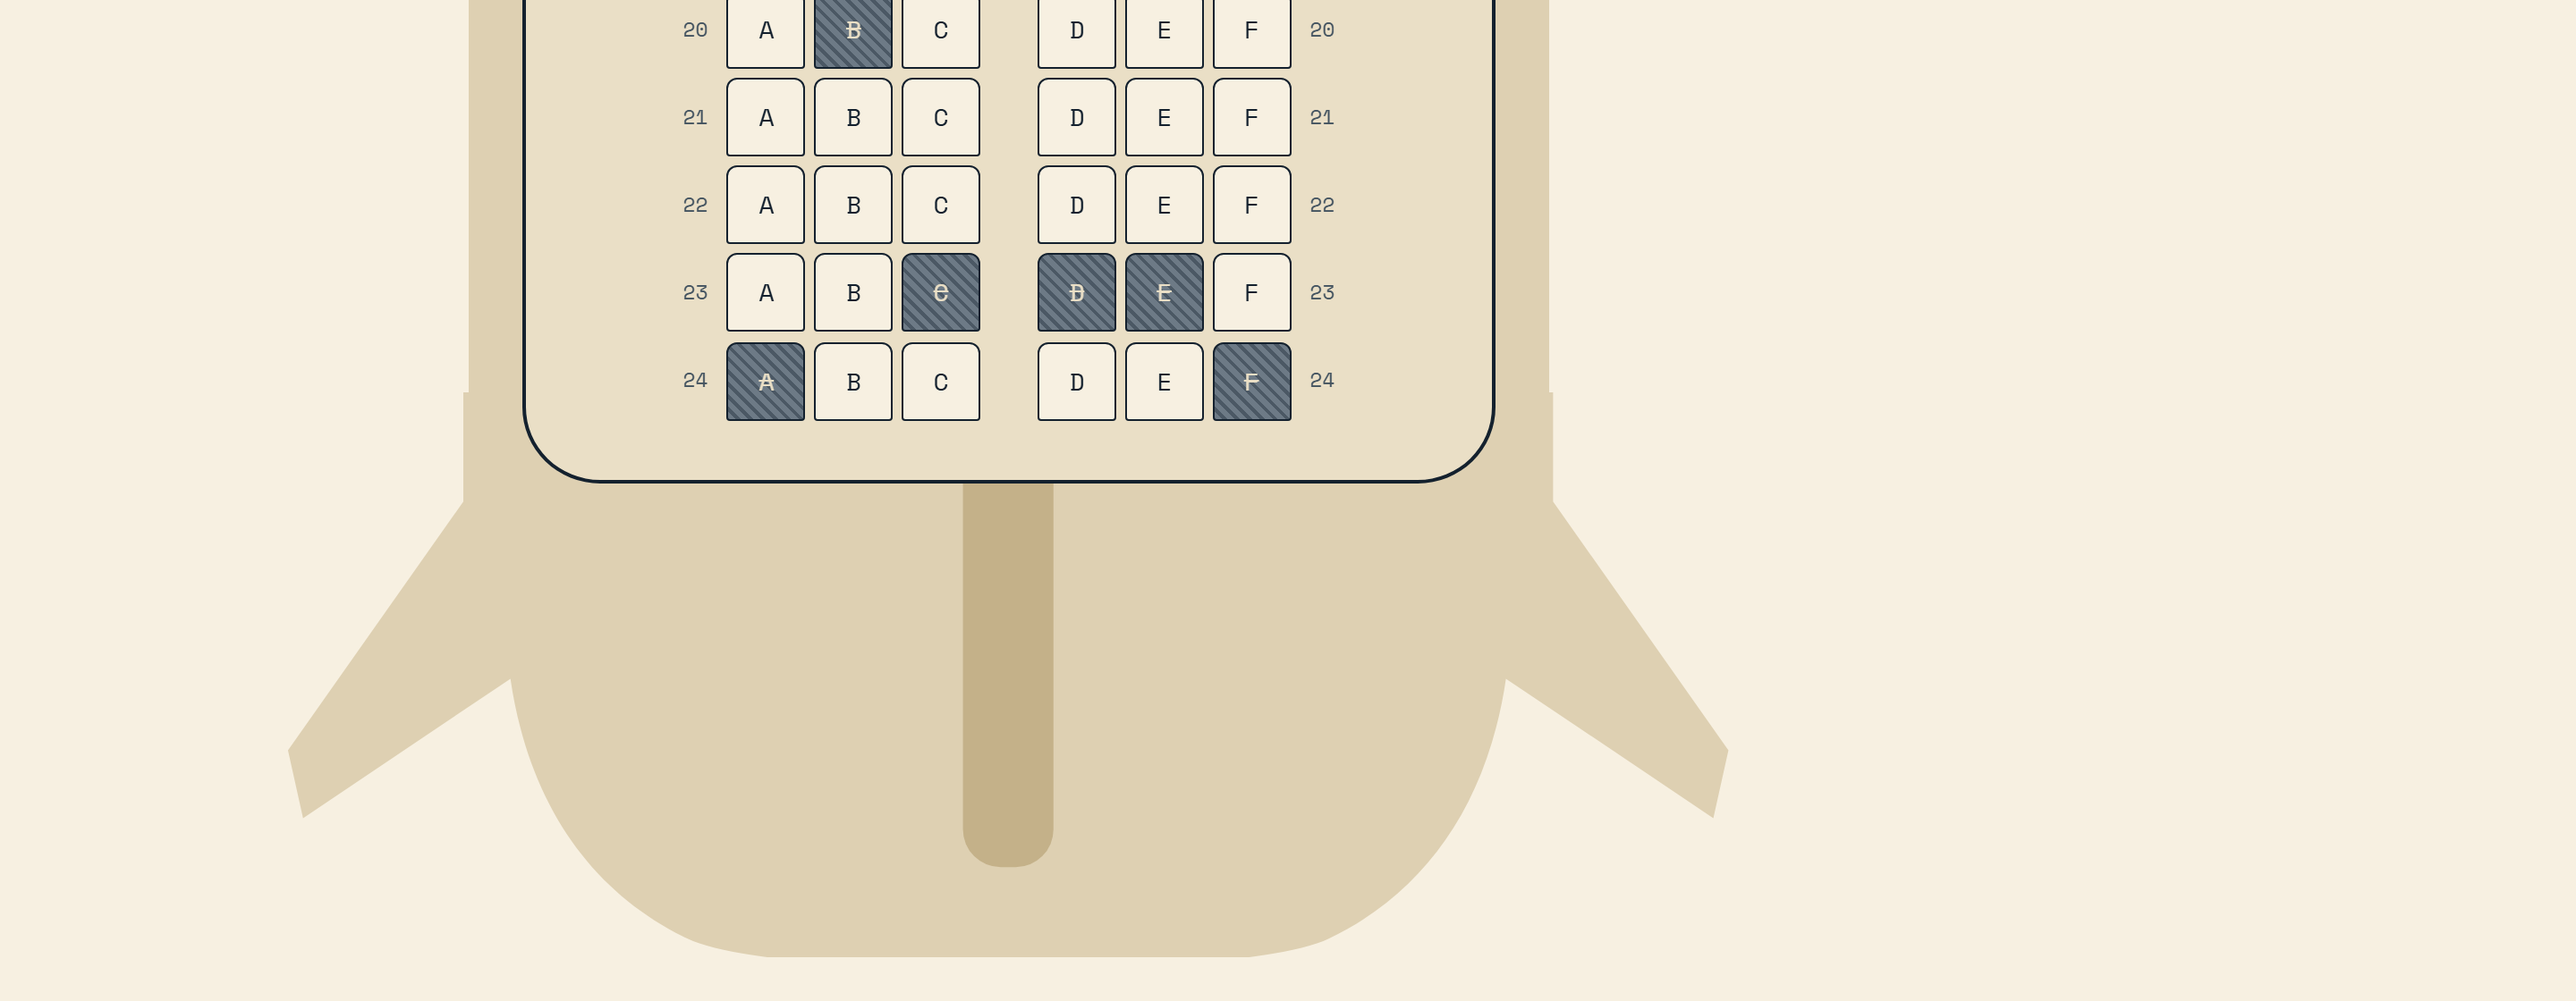
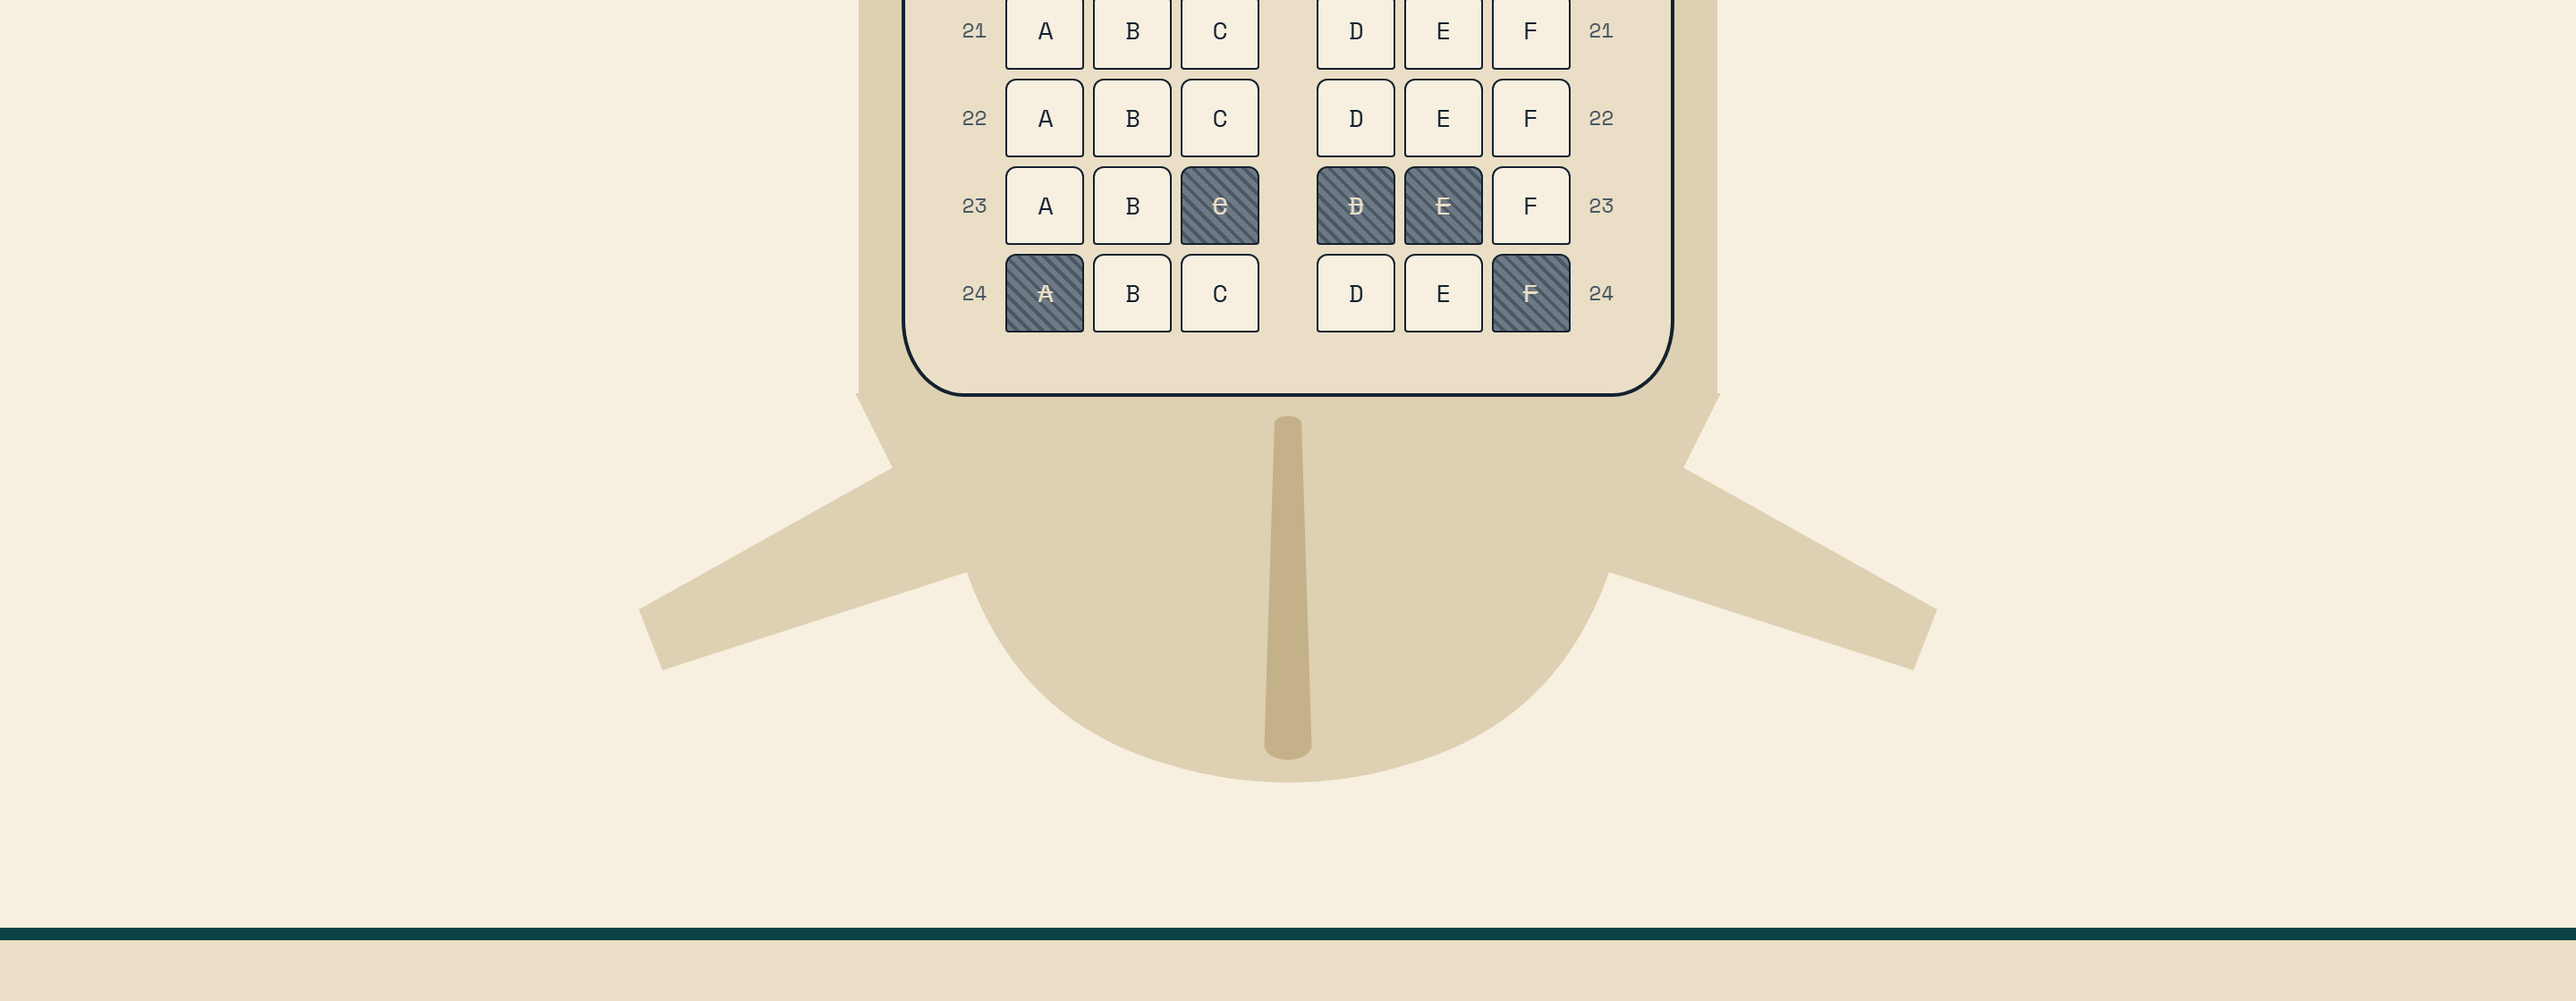
Bigger wings, a lighter tail, and no more shoulders on the fuselage
Three faults, all measured:

The square corners at the top were the hull band. It is a plain rect and
the nose was inset from its own viewBox, so the band stood ~15px proud on
each side and its corners showed past the nose's curve. The nose now runs
the full viewBox and both butt the band edge-to-edge instead of
overlapping it.

The wings were small for two reasons. The cabin was 34rem while a row of
six 44px seats measures 376px, so 168px of dead margin was inflating the
fuselage; the cabin is now 27rem with the seats untouched. And the wings
were centred on a grid column rather than the page, so the port wing ran
off the edge while the starboard one had room to spare - the seat map is
now one centred column with the selection panel floated over the pale
wing. The planform is also slenderer: 110 units of root chord against
864 of span, where 238 units read as a fin bolted to a fat tube.

Nothing is clipped any more. The wings size to min(360%, 100vw - 3rem),
which fits the viewport at every width from 390px up, so the clip that
used to cut the tips is gone entirely. Below 55rem the aircraft folds
away rather than shrink under the cabin it surrounds.

The tail was heavy because the cone held near-full width for half its
length and then ended in a wide half-round - a pale bowl under the last
row. It now tapers continuously to a fifth of the root, and the element
is 175% rather than 148% so the stabilisers clear the fuselage by 120px
[…]

diff --git a/static/css/retro.css b/static/css/retro.css
@@ -1076,14 +1076,14 @@ a:hover { color: var(--orange-dk); }
 .seatmap__head { margin-bottom: 1.1rem; }
 .seatmap__sub { margin: 0; color: var(--teal-dk); font-size: 0.95rem; }
 
-.seatmap { display: grid; grid-template-columns: minmax(0, 1fr) 17.5rem; gap: 2rem; align-items: start; }
-
-/* The wingtips run past the cabin column and pass behind the selection panel,
-   which is what buys the wings enough clear span to carry an engine and the
-   titles. Clipping on the column instead left 147 units of visible wing for
-   186 units of markings. `clip` rather than `hidden`: it does not establish a
-   scroll container, so the sticky panel inside still sticks. */
-.seatmap { overflow-x: clip; overflow-y: visible; }
+/* One cell, two children stacked in it. A second grid column would take 19rem
+   off the cabin's width and, worse, push the aircraft off the page's centre —
+   the wings are centred on the cabin, so an off-centre cabin meant the port
+   wing ran off the edge while the starboard one had room to spare. The panel
+   now floats over the pale wing instead of displacing it. */
+.seatmap { display: grid; grid-template-columns: minmax(0, 1fr); }
+.seatmap__cabin { grid-area: 1 / 1; }
+.summary { grid-area: 1 / 1; justify-self: end; align-self: start; width: 17.5rem; }
 
 .legend {
   display: flex;
@@ -1129,7 +1129,10 @@ a:hover { color: var(--orange-dk); }
   --hull:   var(--paper-3);   /* the silhouette: one step off the page, no outline */
   --hull-2: #c4b189;          /* glazing, engines, fin */
   position: relative;
-  max-width: 34rem;
+  /* A row of six 44px seats plus its numbers measures 376px. At 34rem the
+     cabin carried 168px of dead margin, which inflated the fuselage and left
+     the wings looking like stubs off a very fat tube. */
+  max-width: 27rem;
   margin: 0 auto;
 }
 
@@ -1152,8 +1155,11 @@ a:hover { color: var(--orange-dk); }
   z-index: -1;   /* under the cabin, which they overlap at both ends */
   height: auto;
 }
-.airframe__nose { width: 112%; margin: 0 0 -2.4rem -6%; }
-.airframe__tail { width: 155%; margin: -3.2rem 0 0 -27.5%; }
+/* Butted, not overlapped. Each meets the hull band edge-to-edge at exactly the
+   same width — overlapping them left the band's square top corners sticking
+   out past the nose's curve, which is what read as shoulders on the aircraft. */
+.airframe__nose { width: 112%; margin: 0 0 -2px -6%; }
+.airframe__tail { width: 175%; margin: -2px 0 0 -37.5%; }
 
 /* The cabin: the original rounded shell, at the width that kept the seats 44px
    and legible. The only part of the drawing that carries an outline. */
@@ -1188,11 +1194,18 @@ a:hover { color: var(--orange-dk); }
 /* Behind the cabin's own background: a negative z-index against a parent that
    is positioned but creates no stacking context. That is what lets the root
    pass under the seats unseen, and the span be sized for shape alone. */
+/* As wide as the page allows, and never clipped. The viewport term is what
+   actually binds on a laptop; the percentage caps it on very wide screens so
+   the aircraft does not grow without limit. The cabin is centred on the page,
+   so the wings are too — centred on a side column, the port wing ran off the
+   edge while the starboard one had room to spare. */
 .airframe__wings {
   position: absolute;
-  top: -9rem;
+  top: -10rem;
   left: 50%;
-  width: 260%;
+  /* the percentage resolves against the body's content box, not the cabin, so
+     it runs ~9% short of what the name suggests — 360% lands at ~3.1x cabin */
+  width: min(360%, calc(100vw - 3rem));
   transform: translateX(-50%);
   pointer-events: none;   /* decorative: must never swallow a seat click */
   z-index: -1;
@@ -1710,7 +1723,18 @@ a:hover { color: var(--orange-dk); }
   .routemap__readout, .routemap--compact .routemap__readout { height: auto; min-height: 13rem; }
   .destpanel__inner { grid-template-columns: 1fr; gap: 1.1rem; }
   .destpanel__poster { max-width: 15rem; }
-  .seatmap { grid-template-columns: 1fr; }
+  /* The aircraft folds away here. Its tail alone is 805px, and a silhouette
+     narrower than the cabin it surrounds is worse than none — the cabin keeps
+     its own rounded shell and every seat stays 44px. */
+  .airframe__nose,
+  .airframe__tail,
+  .airframe__wingset { display: none; }
+  .airframe__body::before { display: none; }
+  .airframe__body { border-radius: 34px 34px 14px 14px; }
+
+  /* back to two stacked rows: overlaying the panel is a desktop-only trick */
+  .seatmap { display: block; }
+  .summary { width: auto; }
 
   /* Pinned to the bottom of the viewport, so it must stay shallow: the desktop
      layout is ~390px tall, which would bury half the seat map on a phone.
@@ -1789,7 +1813,7 @@ a:hover { color: var(--orange-dk); }
     background-size: 18px 14px;
   }
   .airframe { max-width: 100%; }
-  .airframe__body { padding: 1.6rem 0.35rem 1rem; border-radius: 22% 22% 6% 6% / 5% 5% 2% 2%; }
+  .airframe__body { padding: 1.1rem 0.35rem 1rem; border-radius: 20px; }
   /* The exit label is decorative here; the red seat underline still marks the
      row and the aria-label stays on the element. `right` must be reset — left
      at -3.6rem it sat outside the viewport and widened the whole document. */

diff --git a/templates/_airframe.html b/templates/_airframe.html
@@ -13,8 +13,10 @@
 {# Kept deliberately shallow. A nose in proportion to a fuselage this wide is
    ~300px tall, which is that much pale nothing above the first seat. #}
 <svg class="airframe__nose" viewBox="0 0 320 84" aria-hidden="true" focusable="false">
-  {# an ogive, not a semicircle: a dome the width of the hull reads as a hill #}
-  <path class="airframe__hull" d="M4 84 C 10 42 70 6 160 6 C 250 6 310 42 316 84 Z"/>
+  {# An ogive, not a semicircle: a dome the width of the hull reads as a hill.
+     The base runs the full viewBox so it meets the hull band exactly — inset
+     even slightly, the band's corners showed past it as square shoulders. #}
+  <path class="airframe__hull" d="M0 84 C 6 42 68 6 160 6 C 252 6 314 42 320 84 Z"/>
   {# flight-deck glazing: one wraparound band, framed rather than cut into panes #}
   <path class="airframe__glass" d="M116 40 C 130 24 144 17 160 17 C 176 17 190 24 204 40
                                    L196 47 C 184 34 173 30 160 30 C 147 30 136 34 124 47 Z"/>
@@ -35,30 +37,37 @@
 <div class="airframe__wingset" aria-hidden="true">
   <svg class="airframe__wings" viewBox="0 0 900 300" focusable="false">
     {# One path straight through the middle: the root is hidden behind the
-       cabin, so there is no seam to hide and no alignment to get wrong. #}
-    <path class="airframe__hull" d="M277 24 L623 24 L623 122 L882 228 L882 264 L566 212
-                                    L558 260 L342 260 L334 212 L18 264 L18 228 L277 122 Z"/>
-    {# Nacelles, longer fore-and-aft than across so they read as pods. Kept
-       inboard of x=101, where the surrounding column clips the wing — further
-       out they were sliced in half and read as wingtip fairings. #}
+       cabin, so there is no seam to hide and no alignment to get wrong.
+       A slender planform — 110 units of root chord against 864 of span. The
+       earlier wing carried 238 units of chord, which at this scale is a 360px
+       slab hanging off the fuselage and reads as a fin, not a wing. #}
+    <path class="airframe__hull" d="M291 110 L18 246 L18 274 L291 220
+                                    L609 220 L882 274 L882 246 L609 110 Z"/>
+    {# nacelles, longer fore-and-aft than across so they read as pods #}
     <g>
-      <rect class="airframe__nacelle" x="120" y="158" width="52" height="76" rx="24"/>
-      <rect class="airframe__nacelle" x="728" y="158" width="52" height="76" rx="24"/>
+      <rect class="airframe__nacelle" x="142" y="150" width="52" height="72" rx="24"/>
+      <rect class="airframe__nacelle" x="706" y="150" width="52" height="72" rx="24"/>
     </g>
   </svg>
 </div>
 {%- endmacro %}
 
 {% macro tail() -%}
-<svg class="airframe__tail" viewBox="0 0 800 300" aria-hidden="true" focusable="false">
-  {# the cone leaves the cabin at full width and tapers, with the stabilisers
-     sweeping out of it rather than off a separate stub #}
-  <path class="airframe__hull" d="M111 0 L689 0 L689 58 L782 190 L774 226 L664 152
-                                  C 654 220 620 266 570 290
-                                  C 526 312 274 312 230 290
-                                  C 180 266 146 220 136 152
-                                  L26 226 L18 190 L111 58 Z"/>
+{# Root x 144-656 is 64% of the viewBox, and the element is 175% of the cabin,
+   so the cone leaves the cabin at exactly the hull width. The extra 75% is
+   what the stabilisers overhang by: at 148% they cleared the fuselage by only
+   65px each side and read as nubs on a tub. #}
+<svg class="airframe__tail" viewBox="0 0 800 210" aria-hidden="true" focusable="false">
+  {# Taper is continuous from the root and closes to a fifth of it. Ending in a
+     wide half-round, as it did, put a pale bowl under the last row — that
+     bowl, not the span, was what made the back read as heavy. #}
+  <path class="airframe__hull" d="M144 0 L656 0 L640 40 L788 116 L776 148 L586 96
+                                  C 566 140 510 172 452 188
+                                  C 432 194 368 194 348 188
+                                  C 290 172 234 140 214 96
+                                  L24 148 L12 116 L160 40 Z"/>
   {# the fin, seen edge-on from above #}
-  <rect class="airframe__fin" x="376" y="24" width="48" height="228" rx="20"/>
+  <path class="airframe__fin" d="M392 16 C 392 10 408 10 408 16 L414 180
+                                 C 414 192 386 192 386 180 Z"/>
 </svg>
 {%- endmacro %}
